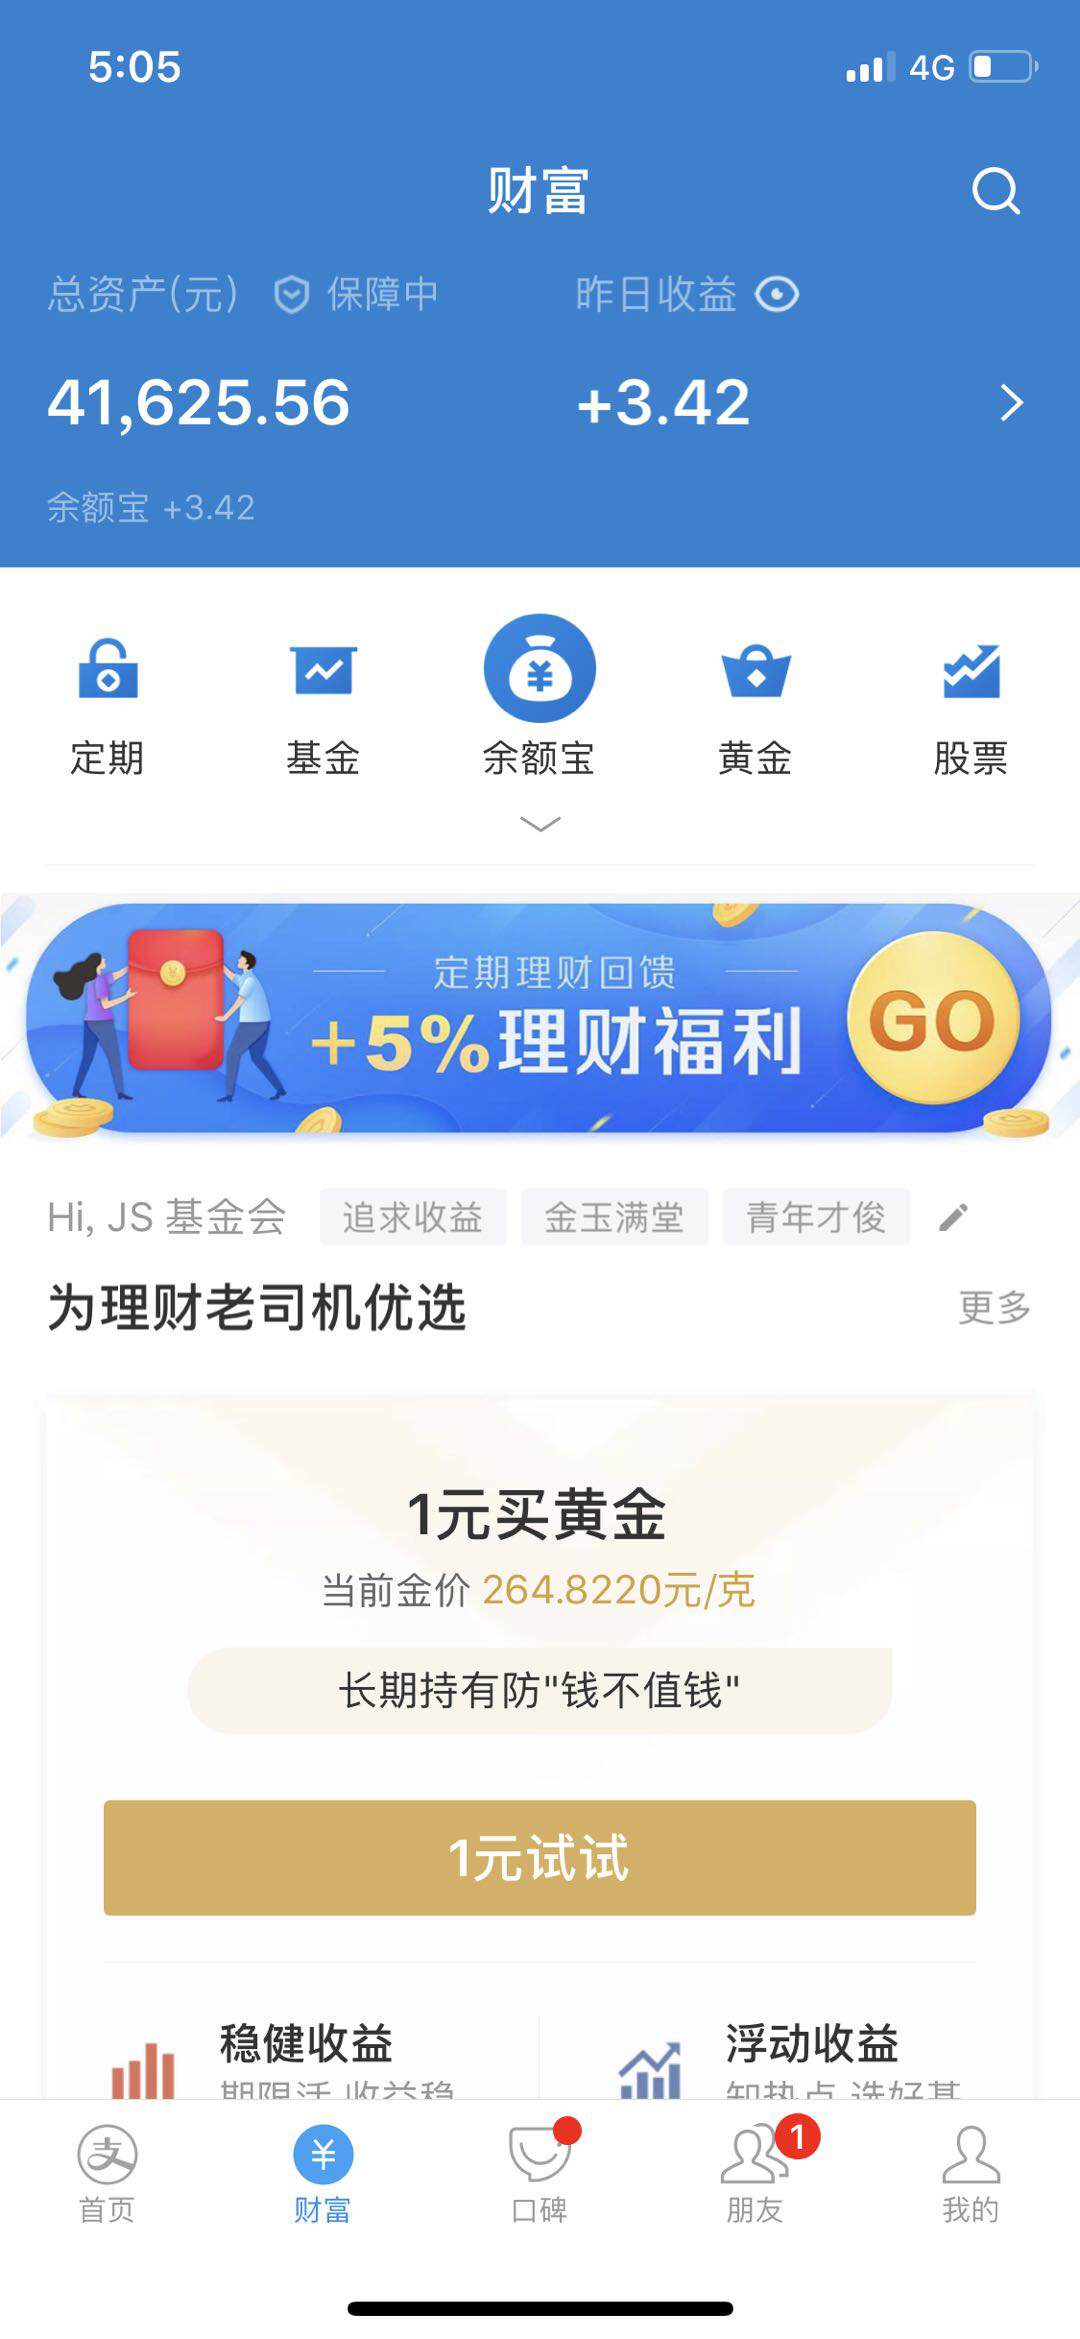
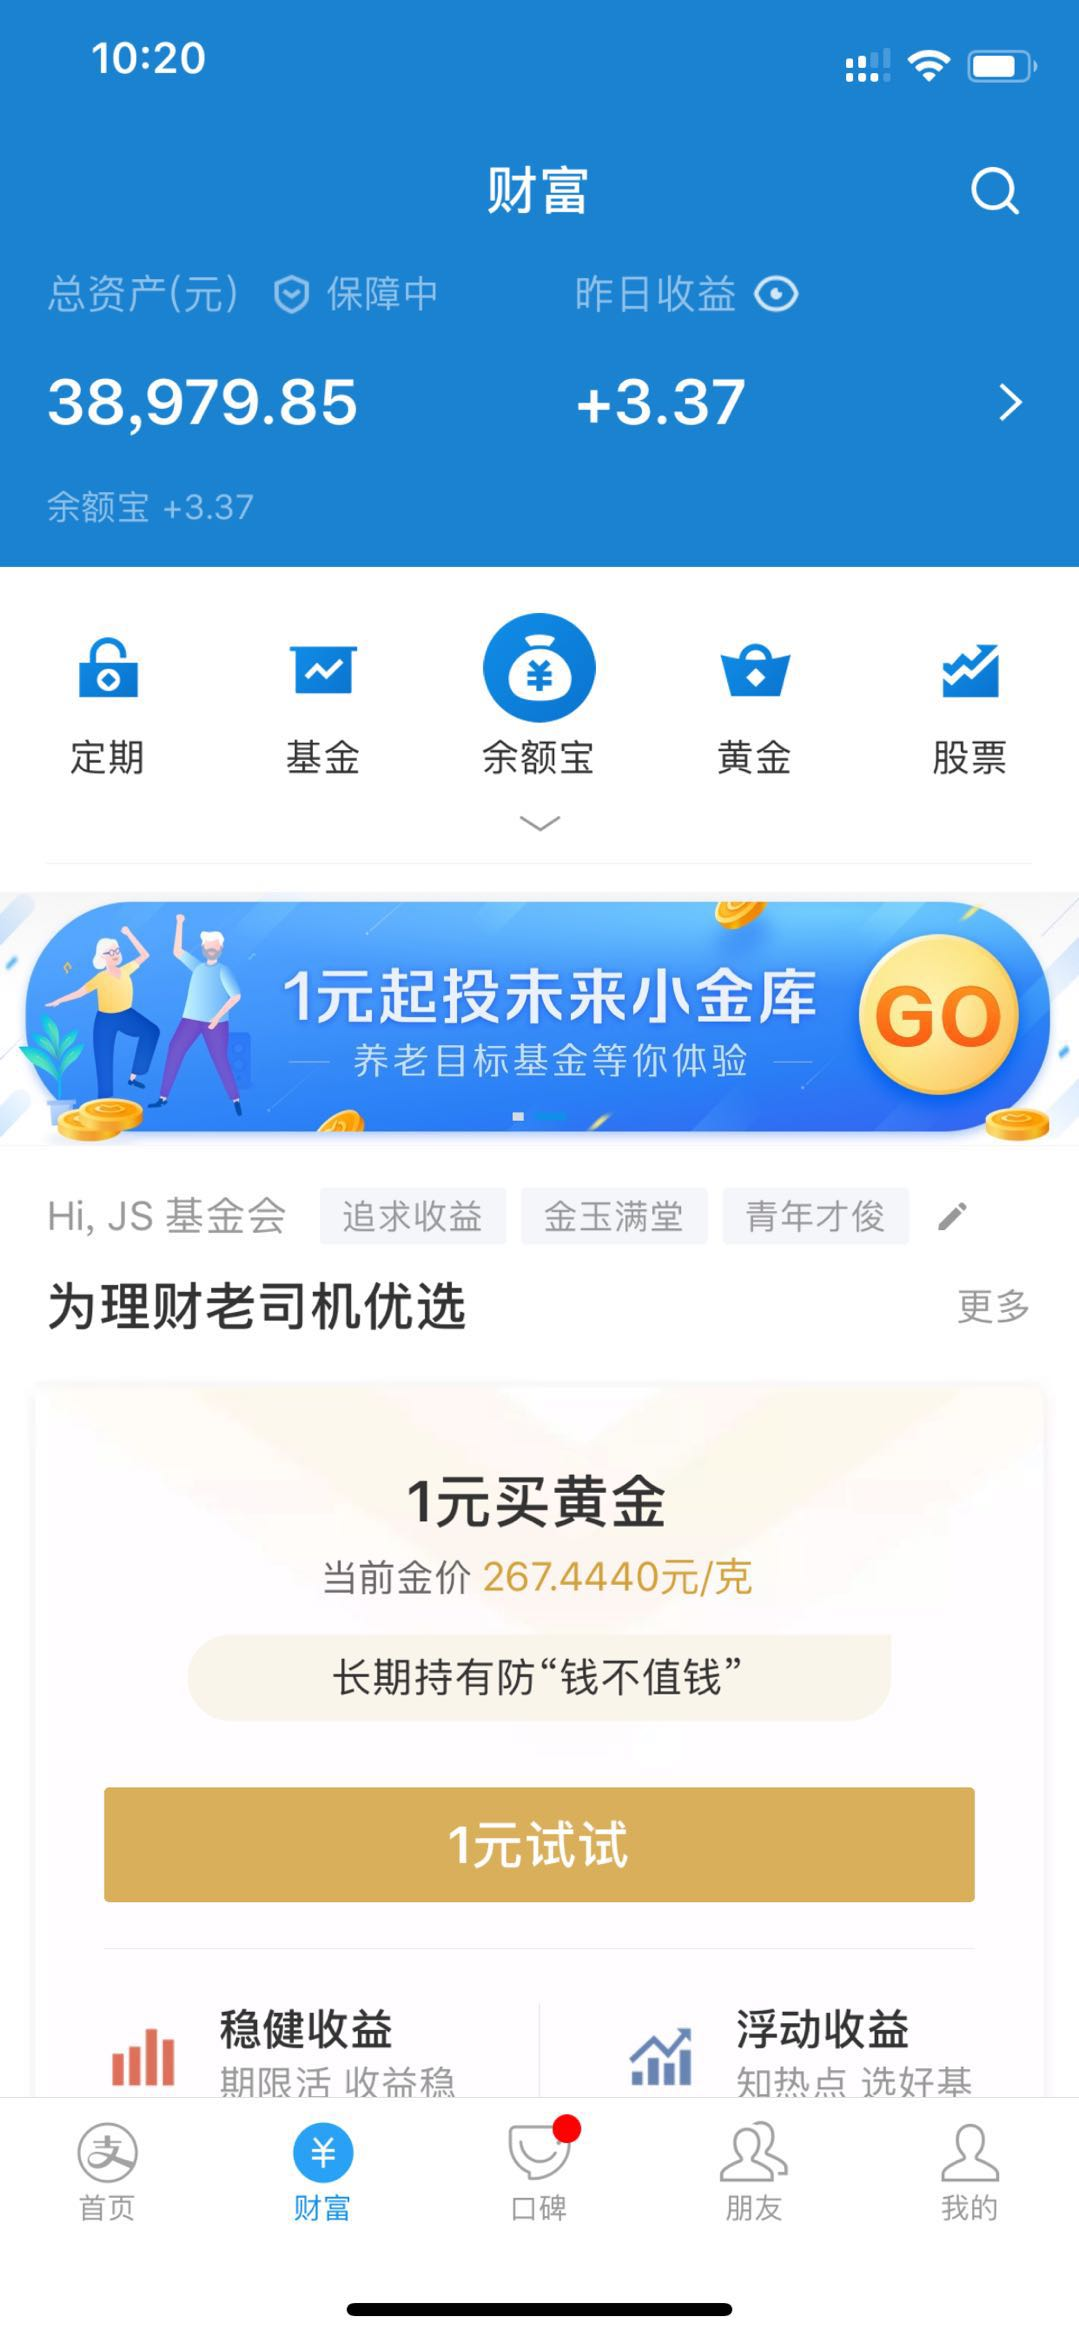
spending: 2018-9-23 第七期 NodeParty 支出汇总

diff --git a/README.md b/README.md
@@ -1,6 +1,7 @@
 #  NodeParty 开源基金会运作草案
 
-![](https://img.shields.io/badge/余额-41625.56%20元-green.svg) ![](https://img.shields.io/badge/赞助笔数-44%20笔-green.svg) ![](https://img.shields.io/badge/待入账-0%20元-blue.svg)
+![](https://img.shields.io/badge/余额-38979.85%20元-green.svg) ![](https://img.shields.io/badge/赞助笔数-44%20笔-green.svg) ![]
+(https://img.shields.io/badge/待入账-0%20元-blue.svg)
 
 ## 组织介绍
 
@@ -209,7 +210,7 @@ Commit Message 需按照此格式：
 <!-- money start -->
 | 款项 | 金额 |
 |------|------|
-| **总额** | 41625.56 元 |
+| **总额** | 38979.85 元 |
 | **待入账** | 0 元 |
 <!-- money end -->
 
